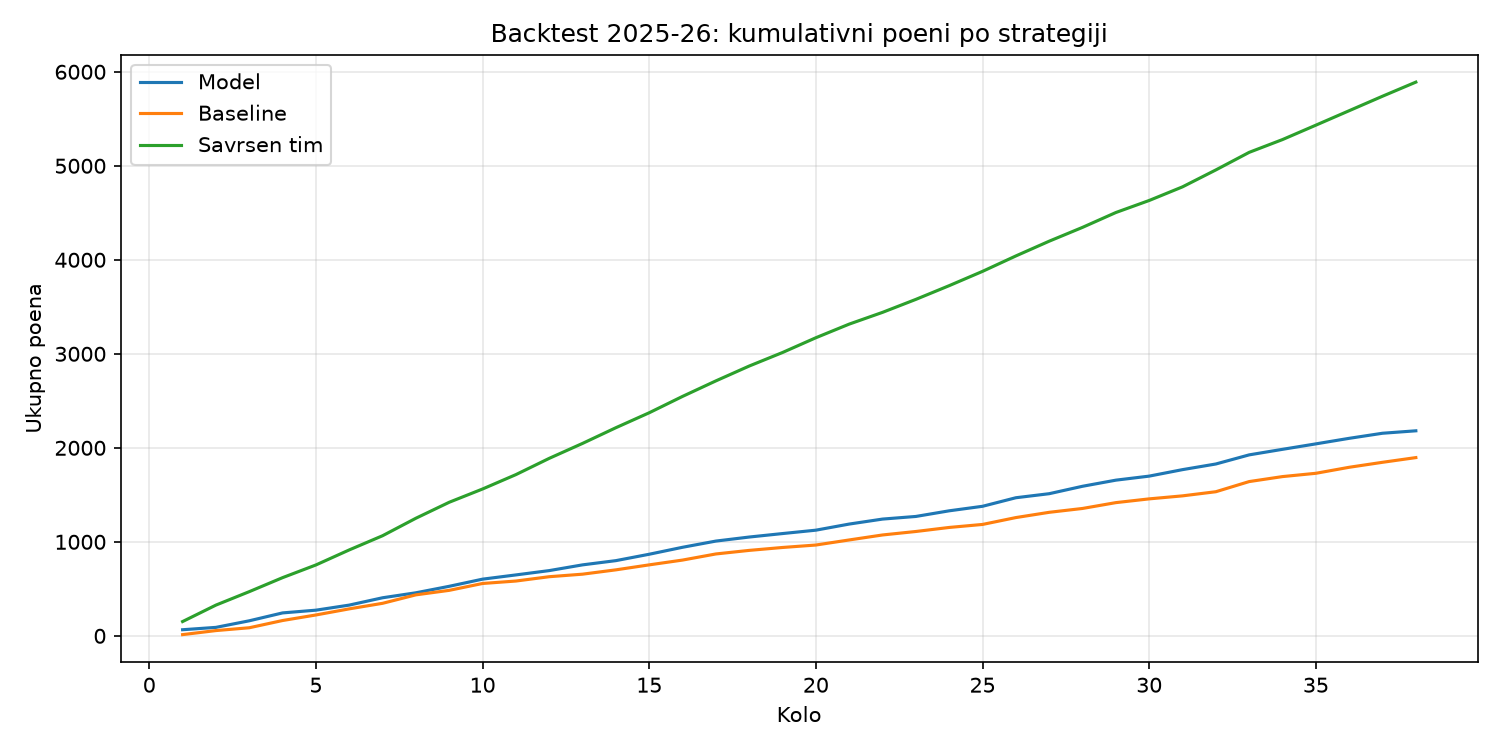
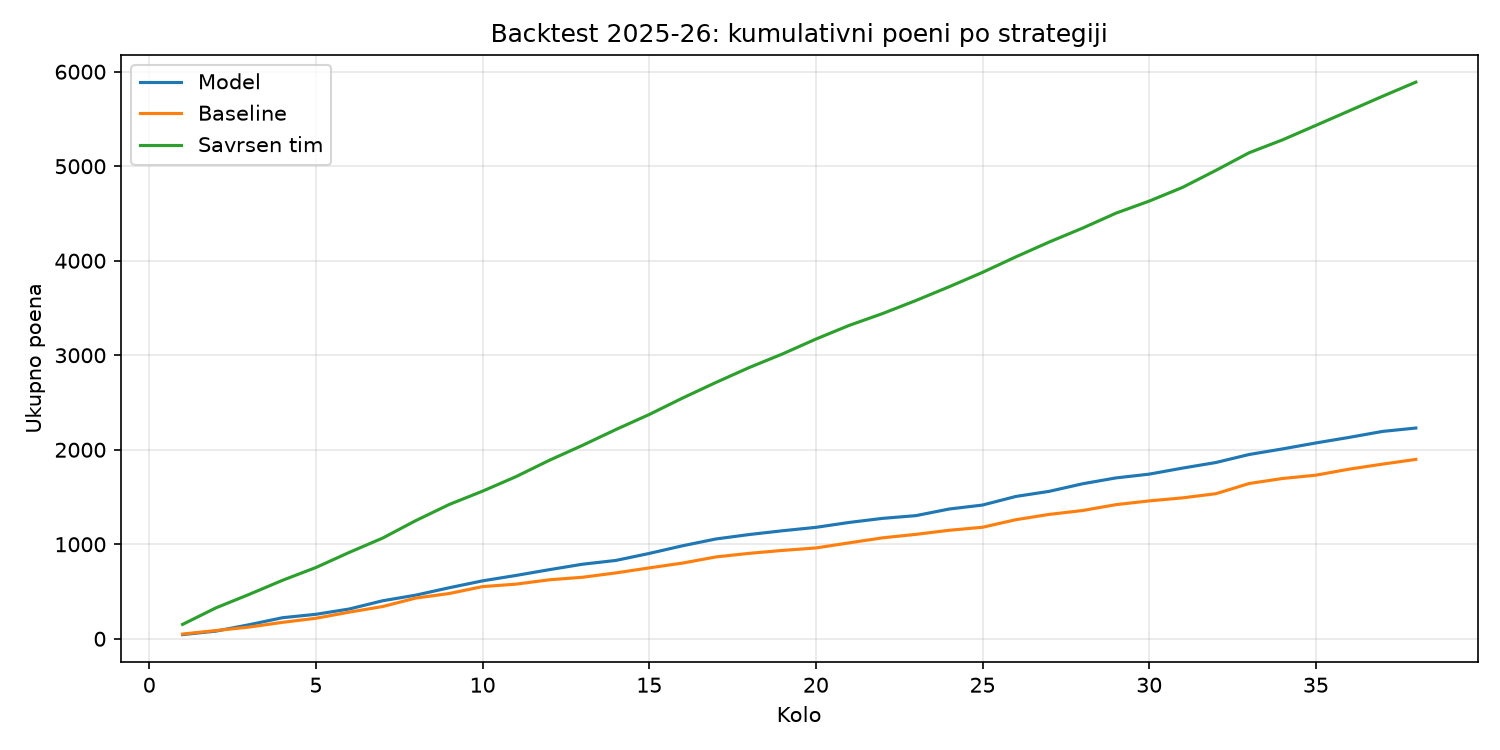
Add README

diff --git a/src/models/predict.py b/src/models/predict.py
@@ -13,11 +13,12 @@ ROOT = Path(__file__).resolve().parents[2]
 MODELS = ROOT / "models"
 PROCESSED = ROOT / "data" / "processed"
 SEASON = "2026-27"
+PREV_SEASON = "2025-26"
 
 
 def players_table(bootstrap: dict) -> pd.DataFrame:
     players = pd.DataFrame(bootstrap["elements"])[
-        ["id", "web_name", "element_type", "team", "now_cost",
+        ["id", "code", "web_name", "element_type", "team", "now_cost",
          "status", "chance_of_playing_next_round"]
     ].rename(columns={"id": "element", "now_cost": "value"})
     players["position"] = players["element_type"].map(POSITIONS)
@@ -31,7 +32,7 @@ def players_table(bootstrap: dict) -> pd.DataFrame:
 def history_rows(summaries: dict, players: pd.DataFrame) -> pd.DataFrame:
     rows = [r for s in summaries.values() for r in s["history"]]
     hist = pd.DataFrame(rows)
-    hist = hist.merge(players[["element", "position"]], on="element", how="inner")
+    hist = hist.merge(players[["element", "code", "position"]], on="element", how="inner")
     hist["is_future"] = False
     return hist
 
@@ -41,7 +42,7 @@ def future_rows(fixtures: list, players: pd.DataFrame, gw: int) -> pd.DataFrame:
     fx = fx[["id", "event", "team_h", "team_a", "kickoff_time"]].rename(
         columns={"id": "fixture", "event": "round"}
     )
-    cols = ["element", "team", "value", "position"]
+    cols = ["element", "code", "team", "value", "position"]
 
     home = fx.merge(players[cols], left_on="team_h", right_on="team")
     home["was_home"], home["opponent_team"] = True, home["team_a"]
@@ -55,6 +56,14 @@ def future_rows(fixtures: list, players: pd.DataFrame, gw: int) -> pd.DataFrame:
     return fut
 
 
+def previous_season_rows() -> pd.DataFrame:
+    """Mecevi prosle sezone, da forma ne pocinje od nule u prvim kolima."""
+    past = pd.read_csv(PROCESSED / "all_seasons_gw.csv", low_memory=False)
+    past = past[past["season"] == PREV_SEASON].copy()
+    past["is_future"] = False
+    return past
+
+
 def main() -> None:
     folder = latest_raw_dir()
     bootstrap = load_json(folder, "bootstrap_static")
@@ -65,10 +74,13 @@ def main() -> None:
     print(f"Podaci iz {folder.name}, predikcije za kolo {gw}")
 
     players = players_table(bootstrap)
-    df = pd.concat([history_rows(summaries, players),
-                    future_rows(fixtures, players, gw)], ignore_index=True)
-    df["season"] = SEASON
-    df["kickoff_time"] = pd.to_datetime(df["kickoff_time"], utc=True)
+    current = pd.concat([history_rows(summaries, players),
+                         future_rows(fixtures, players, gw)], ignore_index=True)
+    current["season"] = SEASON
+
+    df = pd.concat([previous_season_rows(), current], ignore_index=True)
+    df["kickoff_time"] = pd.to_datetime(df["kickoff_time"], utc=True, format="ISO8601")
+    df["is_future"] = df["is_future"].astype(bool)
     for col in NUMERIC_COLS:
         df[col] = pd.to_numeric(df[col], errors="coerce")
 

diff --git a/src/features/build_features.py b/src/features/build_features.py
@@ -6,7 +6,8 @@ import pandas as pd
 ROOT = Path(__file__).resolve().parents[2]
 PROCESSED = ROOT / "data" / "processed"
 
-PLAYER_KEYS = ["season", "element"]
+PLAYER_KEYS = ["code"]               # isti igrac kroz sve sezone
+SEASON_KEYS = ["season", "element"]  # igrac unutar jedne sezone
 TEAM_KEYS = ["season", "team"]
 WINDOWS = [3, 5]
 PLAYER_STATS = [
@@ -34,12 +35,14 @@ def add_player_features(df: pd.DataFrame) -> pd.DataFrame:
     df["played"] = (df["minutes"] > 0).astype(int)
     df["played60"] = (df["minutes"] >= 60).astype(int)
 
+    # forma kroz sezone: prvi mec sezone vidi kraj prosle sezone
     for col in PLAYER_STATS:
         for w in WINDOWS:
             df[f"{col}_roll{w}"] = prev_rolling_mean(df, PLAYER_KEYS, col, w)
 
-    df["matches_before"] = df.groupby(PLAYER_KEYS).cumcount()
+    df["matches_before"] = df.groupby(SEASON_KEYS).cumcount()
     df["minutes_last"] = df.groupby(PLAYER_KEYS)["minutes"].shift(1)
+    df["days_since_last"] = df.groupby(PLAYER_KEYS)["kickoff_time"].diff().dt.days
     return df
 
 
@@ -90,11 +93,13 @@ def add_context_features(df: pd.DataFrame) -> pd.DataFrame:
 def feature_columns(df: pd.DataFrame) -> list[str]:
     """Spisak kolona koje model sme da koristi (samo informacije pre meca)."""
     suffixes = ("_roll3", "_roll5")
-    singles = ["matches_before", "minutes_last", "is_home", "price", "season_year"]
+    singles = ["matches_before", "minutes_last", "days_since_last",
+               "is_home", "price", "season_year"]
     return [
         c for c in df.columns
         if c.endswith(suffixes) or c.startswith("pos_") or c in singles
     ]
+
 
 def main() -> None:
     df = pd.read_csv(PROCESSED / "all_seasons_gw.csv", low_memory=False)

diff --git a/src/data/combine.py b/src/data/combine.py
@@ -41,7 +41,7 @@ def load_season(season: str) -> pd.DataFrame:
     gw = gw[cols].copy()
 
     players = pd.read_csv(VAASTAV / "players" / f"{season}.csv", low_memory=False)
-    players = players[["id", "element_type"]].rename(columns={"id": "element"})
+    players = players[["id", "code", "element_type"]].rename(columns={"id": "element"})
     gw = gw.merge(players, on="element", how="left")
 
     gw["position"] = gw["element_type"].map(POSITIONS)
@@ -63,6 +63,8 @@ def main() -> None:
 
     print(f"Sacuvano {len(df)} redova, {df.shape[1]} kolona u {out}")
     print("Redova bez tima:", df["team"].isna().sum())
+    print("Redova bez code:", df["code"].isna().sum())
+    print("Razlicitih igraca kroz sve sezone:", df["code"].nunique())
     print(df.groupby("season")["team"].nunique())
 
 

diff --git a/README.md b/README.md
@@ -1,0 +1,77 @@
+# FPL Predictor
+
+Predicts Fantasy Premier League points for every player in the upcoming gameweek
+and picks the optimal 15-man squad with integer programming.
+
+![Backtest 2025-26](reports/backtest_2025-26.png)
+
+## Results
+
+Evaluated on the **2025-26 season**, which was never used for training or tuning.
+
+| Metric | Baseline (last 5 matches) | LightGBM |
+| --- | --- | --- |
+| MAE (points per player-match) | 1.057 | **0.984** |
+| Spearman correlation per gameweek | 0.705 | **0.713** |
+| Backtest points, 38 gameweeks | 1,898 | **2,230** |
+
+The model-driven squad scored **17.5% more points** than the same optimizer fed
+with the baseline. A squad picked with perfect hindsight scores 5,890, an upper
+bound that shows how much of FPL is irreducible luck.
+
+**Backtest setup:** every gameweek the optimizer picks a fresh squad within
+£100.0m from the model's predictions, and the squad is scored with the players'
+actual points (starting XI plus double points for the captain).
+
+## How it works
+
+```
+FPL API + historical CSVs → data collection → features → LightGBM → squad optimizer → backtest
+```
+
+1. **Data** (`src/data`): 10 seasons (2016-17 to 2025-26, ~254k player-match rows)
+   from [vaastav/Fantasy-Premier-League](https://github.com/vaastav/Fantasy-Premier-League),
+   plus the official FPL API for the current season.
+2. **Features** (`src/features`): 46 features, all computed only from matches
+   *before* the one being predicted: rolling player form (points, minutes, xG, xA,
+   ICT, bonus), team and opponent attacking/defensive form, home/away, price,
+   position and days since the last match. Players are linked across seasons via
+   FPL's stable `code`, so form carries over into the first gameweeks of a season.
+3. **Model** (`src/models`): LightGBM regressor trained on squared error, because
+   the optimizer needs *expected* points, not the median.
+4. **Optimizer** (`src/optimize`): binary integer program in PuLP: maximize expected
+   points subject to budget, 2-5-5-3 squad, max 3 players per club, valid formation
+   and one captain.
+5. **Live predictions**: for the current season, predictions are scaled by FPL's
+   `chance_of_playing_next_round` to account for injuries and suspensions.
+
+## Key findings
+
+- **57% of player-match rows have zero minutes.** Predicting who plays matters
+  more than predicting how well they play.
+- **Data leakage caught twice.** The historical `xP` column (FPL's own expected
+  points) turned out to be scraped *after* each gameweek ended, so it looked like an
+  unbeatable benchmark. The final match score also slipped into the feature list
+  at one point. Both are now guarded by tests in `tests/`.
+- **Opponent strength changes expected points by 30-70%**, and home teams score
+  0.3-0.5 points more per player on average.
+- **Linking players across seasons** improved the backtest by 49 points, while the
+  overall MAE stayed the same: the gain is concentrated in the opening gameweeks.
+
+## Limitations
+
+- The backtest picks a new squad every gameweek (like a Free Hit each week): no
+  transfer limits, no hits and no automatic substitutions.
+- Historical data has no injury news, so the model cannot learn availability; this
+  is only corrected in live predictions.
+- 2025-26 introduced points for defensive contributions, which the training data
+  does not contain.
+
+## Run it
+
+```bash
+pip install -r requirements.txt
+
+python -m src.data.fetch_history         # historical seasons
+python -m src.data.combine
+pytho
